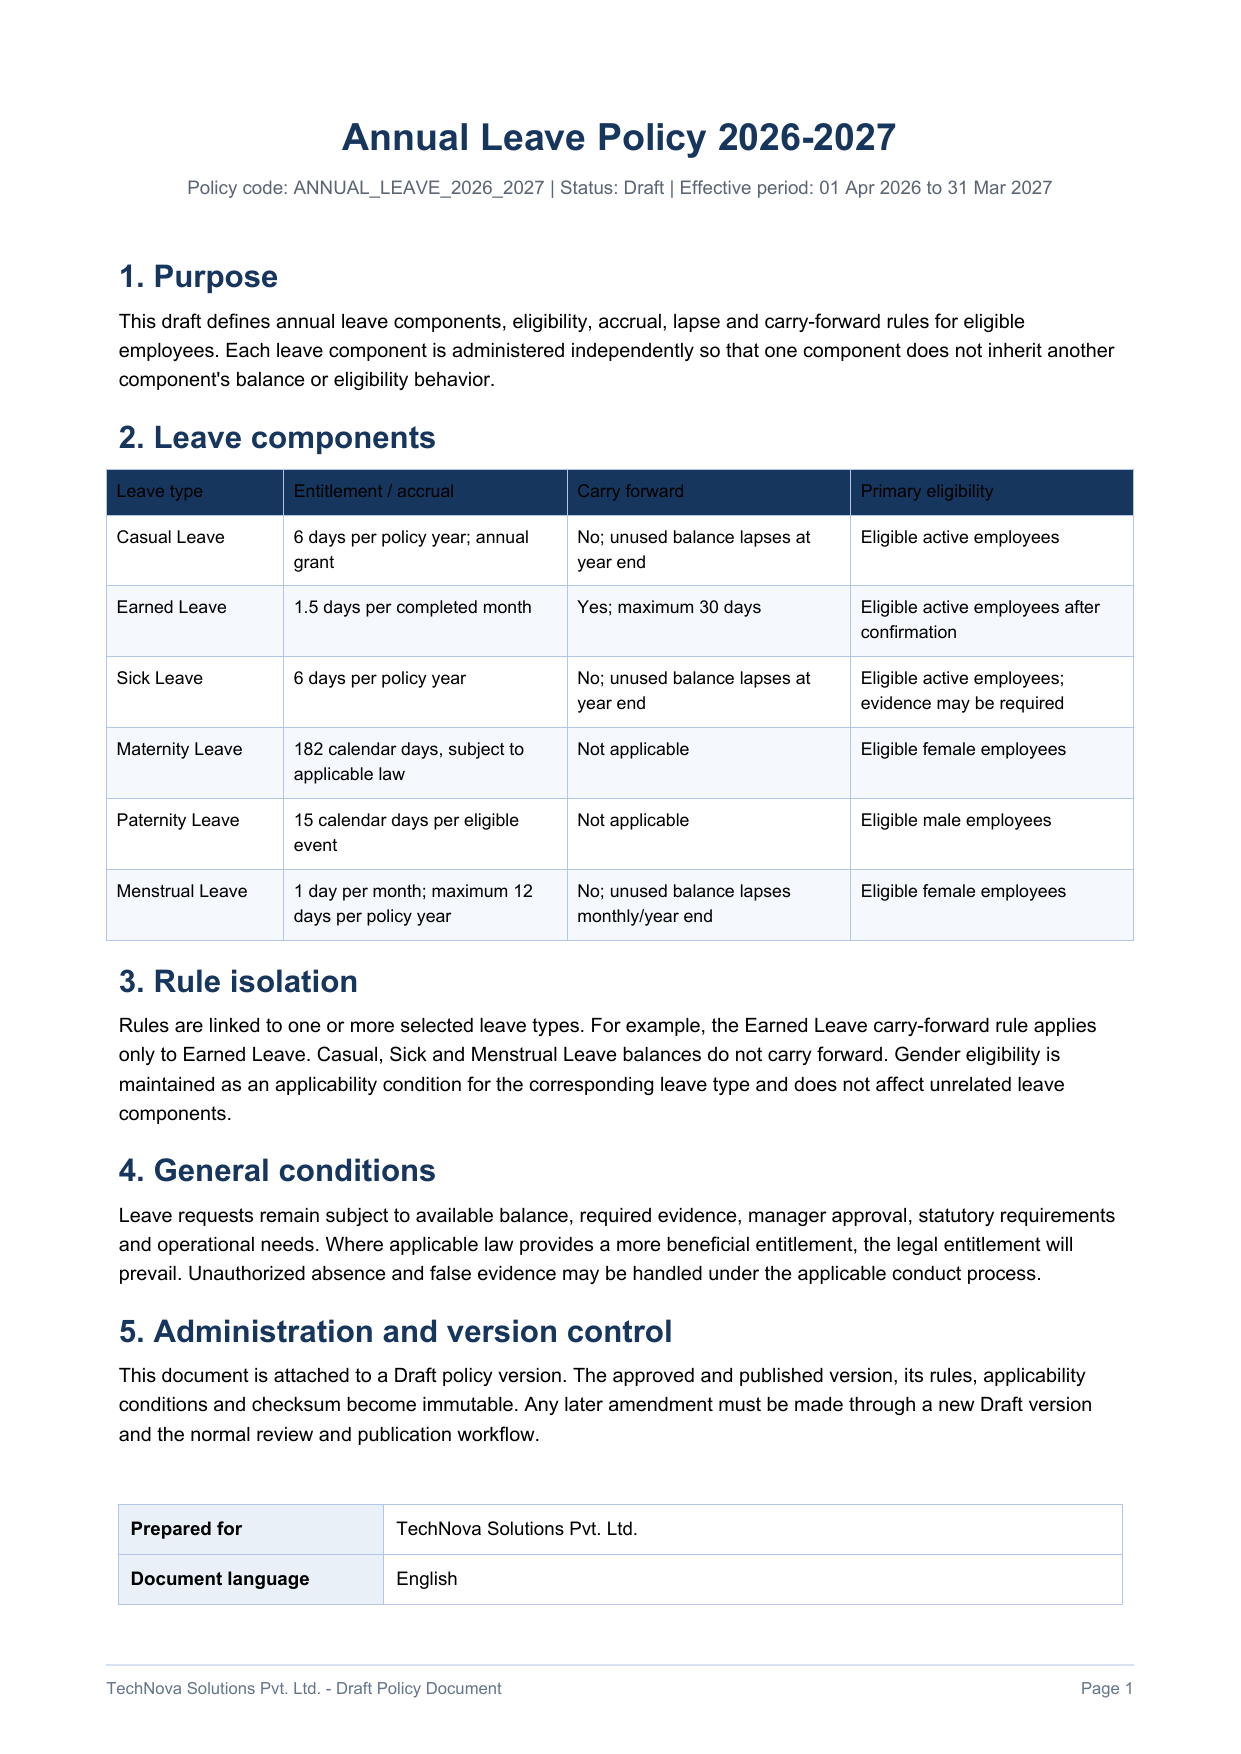
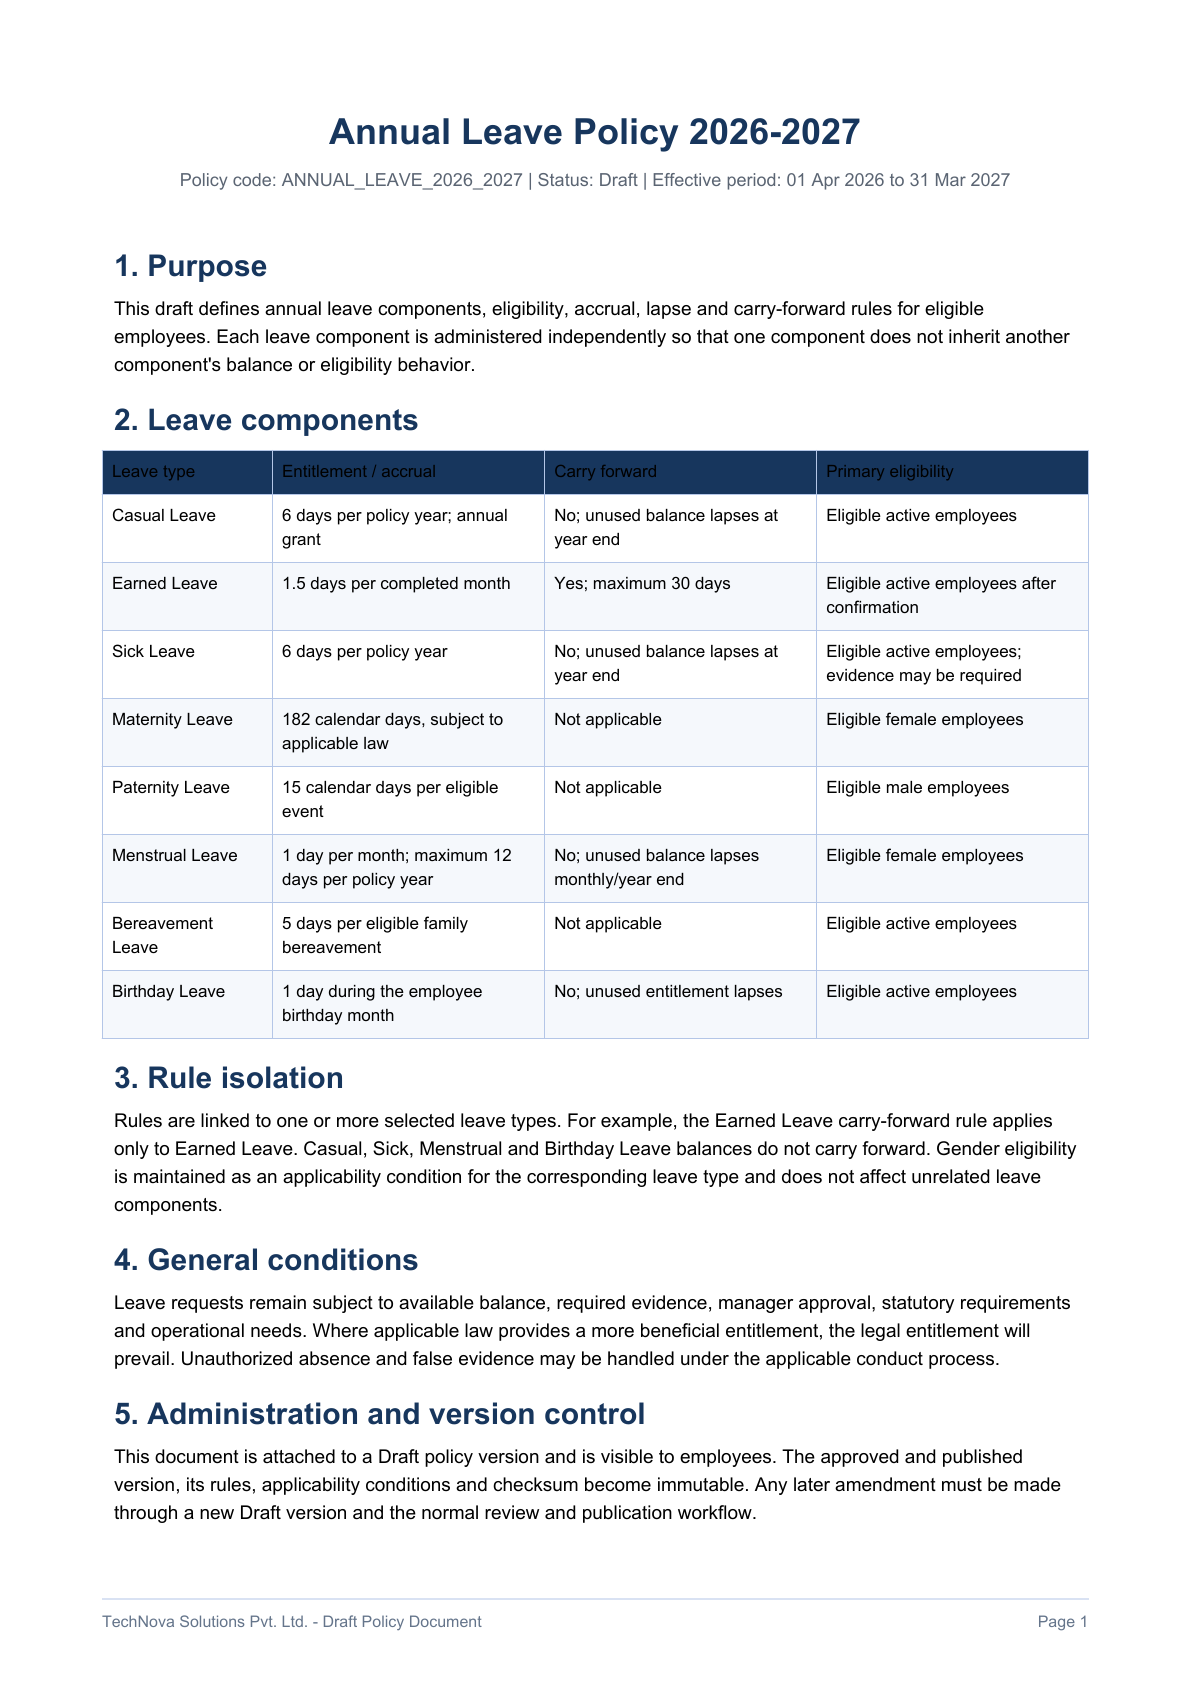
done

diff --git a/tmp/create_render_policy.py b/tmp/create_render_policy.py
@@ -14,14 +14,42 @@ if status>=400: print(text[:1000]);sys.exit(1)
 body=json.loads(text); data=body.get('data') or body.get('Data') or {}; token=data.get('accessToken') or data.get('AccessToken') or body.get('accessToken') or body.get('AccessToken')
 if not token: raise RuntimeError('Access token missing')
 h={'Authorization':'Bearer '+token}
-payload={'moduleId':110,'operationId':1,'policyTypeId':1,'policyCode':'ANNUAL_LEAVE_2026_2027','policyName':'AnnualLeave2026-2027','summary':'Annual leave framework for Casual, Earned, Sick, Maternity, Paternity and Menstrual Leave with leave-type-specific entitlement, accrual, carry-forward and eligibility rules.','ownerDepartmentId':None,'defaultCurrencyCode':'INR','effectiveFrom':'2026-04-01','effectiveTo':'2027-03-31','changeSummary':'Initial 2026-2027 draft with component-specific leave rules and eligibility.','leaveTypeIds':[1,2,3,4,5,6],'rules':[{'policyRuleTypeId':2,'ruleName':'Casual Leave Annual Entitlement','ruleOrder':10,'ruleConfiguration':json.dumps({'quantity':6,'unit':'DAY'}),'leaveTypeIds':[1]},{'policyRuleTypeId':3,'ruleName':'Earned Leave Monthly Accrual','ruleOrder':20,'ruleConfiguration':json.dumps({'frequency':'MONTHLY','amountPerCycle':1.5,'prorateNewJoiner':True}),'leaveTypeIds':[2]},{'policyRuleTypeId':4,'ruleName':'Earned Leave Carry Forward','ruleOrder':30,'ruleConfiguration':json.dumps({'enabled':True,'maximumQuantity':30,'expiryMonths':12}),'leaveTypeIds':[2]}],'applicability':[{'applicabilityMode':1,'genderId':2,'priority':500,'effectiveFrom':'2026-04-01','effectiveTo':'2027-03-31','leaveTypeIds':[3]},{'applicabilityMode':1,'genderId':2,'priority':500,'effectiveFrom':'2026-04-01','effectiveTo':'2027-03-31','leaveTypeIds':[6]}]}
+payload={
+ 'moduleId':110,
+ 'operationId':1,
+ 'policyTypeId':1,
+ 'policyCode':'EMPLOYEE_LEAVE_2026_2027',
+ 'policyName':'Employee Leave Policy 2026-2027',
+ 'summary':'Employee leave framework for Casual, Earned, Sick, Maternity, Paternity, Menstrual, Bereavement and Birthday Leave with component-specific entitlement, accrual, carry-forward and eligibility rules.',
+ 'ownerDepartmentId':None,
+ 'defaultCurrencyCode':'INR',
+ 'effectiveFrom':'2026-04-01',
+ 'effectiveTo':'2027-03-31',
+ 'changeSummary':'Initial 2026-2027 draft with leave-type-specific rules and eligibility.',
+ 'leaveTypeIds':[1,2,3,4,5,6,7,8],
+ 'rules':[
+  {'policyRuleTypeId':2,'ruleName':'Casual Leave Annual Entitlement','ruleOrder':10,'ruleConfiguration':json.dumps({'quantity':6,'unit':'DAY'}),'leaveTypeIds':[1]},
+  {'policyRuleTypeId':3,'ruleName':'Earned Leave Monthly Accrual','ruleOrder':20,'ruleConfiguration':json.dumps({'frequency':'MONTHLY','amountPerCycle':1.5,'prorateNewJoiner':True}),'leaveTypeIds':[2]},
+  {'policyRuleTypeId':4,'ruleName':'Earned Leave Carry Forward','ruleOrder':30,'ruleConfiguration':json.dumps({'enabled':True,'maximumQuantity':30,'expiryMonths':12}),'leaveTypeIds':[2]},
+  {'policyRuleTypeId':2,'ruleName':'Sick Leave Annual Entitlement','ruleOrder':40,'ruleConfiguration':json.dumps({'quantity':6,'unit':'DAY'}),'leaveTypeIds':[5]},
+  {'policyRuleTypeId':2,'ruleName':'Maternity Leave Statutory Entitlement','ruleOrder':50,'ruleConfiguration':json.dumps({'quantity':182,'unit':'DAY'}),'leaveTypeIds':[3]},
+  {'policyRuleTypeId':2,'ruleName':'Paternity Leave Event Entitlement','ruleOrder':60,'ruleConfiguration':json.dumps({'quantity':15,'unit':'DAY'}),'leaveTypeIds':[4]},
+  {'policyRuleTypeId':2,'ruleName':'Menstrual Leave Annual Entitlement','ruleOrder':70,'ruleConfiguration':json.dumps({'quantity':12,'unit':'DAY'}),'leaveTypeIds':[6]},
+  {'policyRuleTypeId':2,'ruleName':'Bereavement Leave Event Entitlement','ruleOrder':80,'ruleConfiguration':json.dumps({'quantity':5,'unit':'DAY'}),'leaveTypeIds':[7]},
+  {'policyRuleTypeId':2,'ruleName':'Birthday Leave Annual Entitlement','ruleOrder':90,'ruleConfiguration':json.dumps({'quantity':1,'unit':'DAY'}),'leaveTypeIds':[8]}
+ ],
+ 'applicability':[
+  {'applicabilityMode':1,'genderId':2,'priority':500,'effectiveFrom':'2026-04-01','effectiveTo':'2027-03-31','leaveTypeIds':[3,6]},
+  {'applicabilityMode':1,'genderId':1,'priority':500,'effectiveFrom':'2026-04-01','effectiveTo':'2027-03-31','leaveTypeIds':[4]}
+ ]
+}
 status,text=call('/TenantPolicy','POST',payload,h); print('create_status',status); print('create_body',text[:1500])
 if status>=400:sys.exit(2)
 rd=json.loads(text).get('data') or json.loads(text).get('Data') or {}; policy_id=rd.get('policyId') or rd.get('PolicyId') or rd.get('id') or rd.get('Id'); version_id=rd.get('policyVersionId') or rd.get('PolicyVersionId') or rd.get('versionId') or rd.get('VersionId')
 if not policy_id or not version_id: raise RuntimeError('Created IDs missing')
 boundary='----Codex'+uuid.uuid4().hex; chunks=[]
 def field(n,v): chunks.extend([f'--{boundary}\r\nContent-Disposition: form-data; name="{n}"\r\n\r\n{v}\r\n'.encode()])
-for k,v in {'moduleId':110,'operationId':15,'policyVersionId':version_id,'policyDocumentTypeId':1,'documentTitle':'Annual Leave Policy 2026-2027','languageCode':'en','isEmployeeVisible':'true'}.items():field(k,v)
+for k,v in {'moduleId':110,'operationId':15,'policyVersionId':version_id,'policyDocumentTypeId':1,'documentTitle':'Employee Leave Policy 2026-2027','languageCode':'en','isEmployeeVisible':'true'}.items():field(k,v)
 fdata=open(r'output/pdf/AnnualLeave2026-2027.pdf','rb').read(); chunks.extend([f'--{boundary}\r\nContent-Disposition: form-data; name="file"; filename="AnnualLeave2026-2027.pdf"\r\nContent-Type: application/pdf\r\n\r\n'.encode(),fdata,b'\r\n',f'--{boundary}--\r\n'.encode()])
 status,utext=call('/TenantPolicy/documents','POST',headers={**h,'Content-Type':'multipart/form-data; boundary='+boundary},body=b''.join(chunks)); print('upload_status',status); print('upload_body',utext[:1500])
 if status>=400:sys.exit(3)

diff --git a/tmp/pdfs/create_annual_leave_policy.py b/tmp/pdfs/create_annual_leave_policy.py
@@ -25,10 +25,10 @@ def footer(canvas, doc):
     canvas.drawRightString(192*mm, 10*mm, f'Page {doc.page}')
     canvas.restoreState()
 
-doc = SimpleDocTemplate(str(out), pagesize=A4, rightMargin=18*mm, leftMargin=18*mm, topMargin=17*mm, bottomMargin=20*mm, title='AnnualLeave2026-2027')
+doc = SimpleDocTemplate(str(out), pagesize=A4, rightMargin=18*mm, leftMargin=18*mm, topMargin=17*mm, bottomMargin=20*mm, title='Employee Leave Policy 2026-2027')
 story = [
-    Paragraph('Annual Leave Policy 2026-2027', styles['TitleCenter']),
-    Paragraph('Policy code: ANNUAL_LEAVE_2026_2027 | Status: Draft | Effective period: 01 Apr 2026 to 31 Mar 2027', styles['Subtle']),
+    Paragraph('Employee Leave Policy 2026-2027', styles['TitleCenter']),
+    Paragraph('Policy code: EMPLOYEE_LEAVE_2026_2027 | Status: Draft | Effective period: 01 Apr 2026 to 31 Mar 2027', styles['Subtle']),
     Spacer(1, 6*mm),
     Paragraph('1. Purpose', styles['H1Blue']),
     Paragraph('This draft defines annual leave components, eligibility, accrual, lapse and carry-forward rules for eligible employees. Each leave component is administered independently so that one component does not inherit another component\'s balance or eligibility behavior.', styles['Body2']),
@@ -41,7 +41,9 @@ rows = [
     ['Sick Leave', '6 days per policy year', 'No; unused balance lapses at year end', 'Eligible active employees; evidence may be required'],
     ['Maternity Leave', '182 calendar days, subject to applicable law', 'Not applicable', 'Eligible female employees'],
     ['Paternity Leave', '15 calendar days per eligible event', 'Not applicable', 'Eligible male employees'],
-    ['Menstrual Leave', '1 day per month; maximum 12 days per policy year', 'No; unused balance lapses monthly/year end', 'Eligible female employees']
+    ['Menstrual Leave', '1 day per month; maximum 12 days per policy year', 'No; unused balance lapses monthly/year end', 'Eligible female employees'],
+    ['Bereavement Leave', '5 days per eligible family bereavement', 'Not applicable', 'Eligible active employees'],
+    ['Birthday Leave', '1 day during the employee birthday month', 'No; unused entitlement lapses', 'Eligible active employees']
 ]
 rows = [[Paragraph(str(cell), styles['Small']) for cell in row] for row in rows]
 t = Table(rows, colWidths=[30*mm, 48*mm, 48*mm, 48*mm], repeatRows=1)
@@ -54,23 +56,11 @@ t.setStyle(TableStyle([
 ]))
 story += [t,
     Paragraph('3. Rule isolation', styles['H1Blue']),
-    Paragraph('Rules are linked to one or more selected leave types. For example, the Earned Leave carry-forward rule applies only to Earned Leave. Casual, Sick and Menstrual Leave balances do not carry forward. Gender eligibility is maintained as an applicability condition for the corresponding leave type and does not affect unrelated leave components.', styles['Body2']),
+    Paragraph('Rules are linked to one or more selected leave types. For example, the Earned Leave carry-forward rule applies only to Earned Leave. Casual, Sick, Menstrual and Birthday Leave balances do not carry forward. Gender eligibility is maintained as an applicability condition for the corresponding leave type and does not affect unrelated leave components.', styles['Body2']),
     Paragraph('4. General conditions', styles['H1Blue']),
     Paragraph('Leave requests remain subject to available balance, required evidence, manager approval, statutory requirements and operational needs. Where applicable law provides a more beneficial entitlement, the legal entitlement will prevail. Unauthorized absence and false evidence may be handled under the applicable conduct process.', styles['Body2']),
     Paragraph('5. Administration and version control', styles['H1Blue']),
-    Paragraph('This document is attached to a Draft policy version. The approved and published version, its rules, applicability conditions and checksum become immutable. Any later amendment must be made through a new Draft version and the normal review and publication workflow.', styles['Body2']),
-    Spacer(1, 7*mm),
-    Table([
-        ['Prepared for', 'TechNova Solutions Pvt. Ltd.'],
-        ['Document language', 'English'],
-        ['Employee visibility', 'Visible to employees'],
-        ['Review status', 'Draft - pending review and approval']
-    ], colWidths=[45*mm, 125*mm], style=TableStyle([
-        ('BACKGROUND',(0,0),(0,-1),colors.HexColor('#EAF0F8')), ('FONTNAME',(0,0),(0,-1),'Helvetica-Bold'),
-        ('GRID',(0,0),(-1,-1),0.4,colors.HexColor('#B4C6E7')), ('FONTSIZE',(0,0),(-1,-1),9),
-        ('VALIGN',(0,0),(-1,-1),'TOP'), ('LEFTPADDING',(0,0),(-1,-1),6), ('RIGHTPADDING',(0,0),(-1,-1),6),
-        ('TOPPADDING',(0,0),(-1,-1),6), ('BOTTOMPADDING',(0,0),(-1,-1),6)
-    ]))
+    Paragraph('This document is attached to a Draft policy version and is visible to employees. The approved and published version, its rules, applicability conditions and checksum become immutable. Any later amendment must be made through a new Draft version and the normal review and publication workflow.', styles['Body2'])
 ]
 doc.build(story, onFirstPage=footer, onLaterPages=footer)
 print(out)

diff --git a/tmp/query_existing_leave_policy.py b/tmp/query_existing_leave_policy.py
@@ -1,0 +1,35 @@
+import os
+import psycopg
+
+
+def connection_args(value):
+    parts = {}
+    for item in value.split(";"):
+        if "=" in item:
+            key, setting = item.split("=", 1)
+            parts[key.strip().lower()] = setting.strip()
+    return {
+        "host": parts.get("host") or parts.get("server"),
+        "port": parts.get("port", "5432"),
+        "dbname": parts.get("database"),
+        "user": parts.get("username") or parts.get("user id"),
+        "password": parts.get("password"),
+        "sslmode": (parts.get("ssl mode") or "prefer").lower(),
+    }
+
+
+with psycopg.connect(**connection_args(os.environ["AXION_RENDER_CS"])) as connection:
+    with connection.cursor() as cursor:
+        cursor.execute(
+            '''
+            SELECT p."Id", p."PolicyCode", p."PolicyName",
+                   v."Id", v."VersionNumber", v."PolicyStatusId"
+            FROM axionpro."Policy" p
+            JOIN axionpro."PolicyVersion" v ON v."PolicyId" = p."Id"
+            WHERE p."TenantId" = 7
+              AND (p."PolicyCode" ILIKE %s OR p."PolicyName" ILIKE %s)
+            ORDER BY p."Id" DESC
+            ''',
+            ("%LEAVE_2026_2027%", "%Leave Policy 2026-2027%"),
+        )
+        print(cursor.fetchall())
